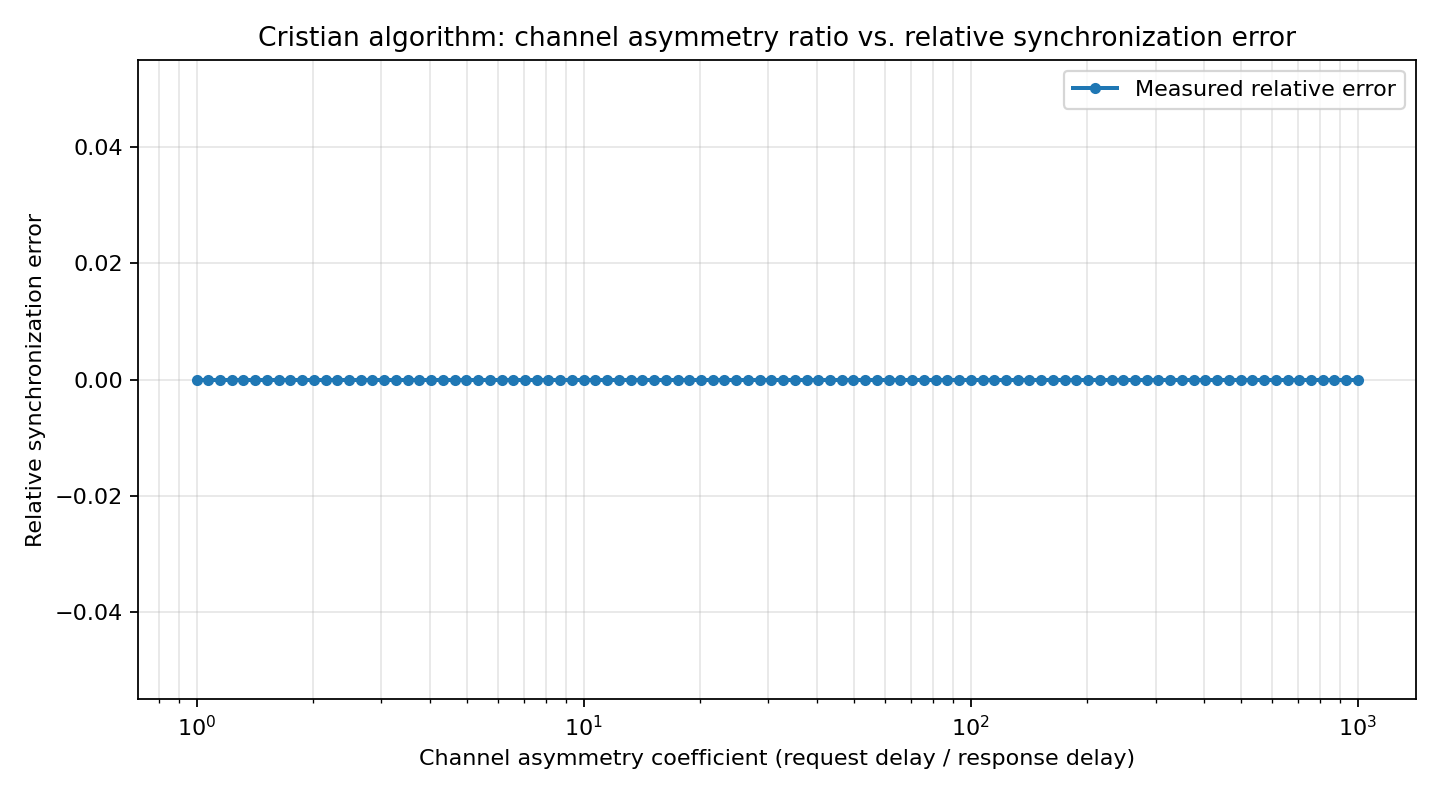
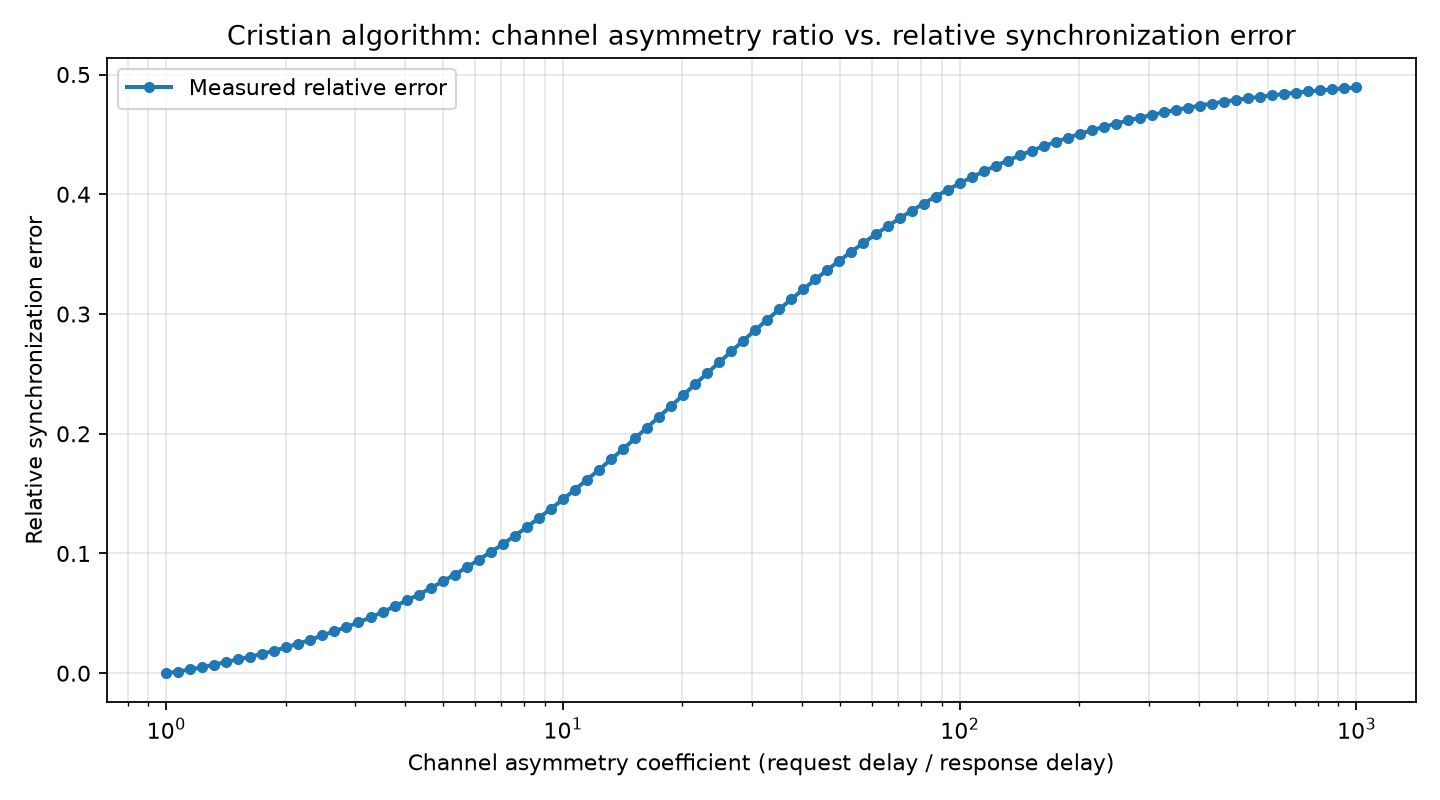
# task 1.2 tests passed succesfully + also added experiment png

diff --git a/tasks/time_synchronization/experiment.py b/tasks/time_synchronization/experiment.py
@@ -35,12 +35,48 @@ def run_single_point(
 	initial_skew_local_mcs: float,
 	# Parameter for initial remote clock skew in microseconds
 	initial_skew_remote_mcs: float,
-) -> ExperimentPoint:
+) -> ExperimentPoint: 
     # TODO: implement me (task 1.2)
+
+    # Формула для расчета relative_error: `|(local_time - remote_time) / remote_time|`
+    # Сброс тиков обязателен для обычного запуска
+	# run_experiment вызывает эту функцию в цикле,
+    # а без сброса глобальный счётчик тиков накапливается между точками
+    # Это приводит к ложному занижению relative_error (растёт знаменатель см. формула выше).
+    reset_ticks()
+
+	# Локальные часы, дрифт переданный используем
+    local_clock = LocalClock(initial_skew_mcs=initial_skew_local_mcs)
+
+    # Удалённые часы имитируют сервер времени за каналом связи 
+    # asymmetry_ratio задаёт перекос: request_delay = response_delay * ratio 
+    # get_time() у этого класса продвигает глобальные тики на
+    # (request_delay + response_delay) — это симуляция RTT 
+    remote_clock = ClockWithNetworkDelay(
+        network_delay_provider=NetworkStaticDelayProvider(
+            network_request_delay_ticks=network_response_delay_ticks * asymmetry_ratio,
+            network_response_delay_ticks=network_response_delay_ticks,
+        ),
+        initial_skew_mcs=initial_skew_remote_mcs,
+    )
+
+	# синхронизируем часы ранее разработанной функцией
+	# После вызова тики ровно = request + response  
+    cristian_time_synchronize(local_clock, remote_clock)
+
+	# снять локальное время ПОСЛЕ синхронизации
+    local_time = local_clock.get_time()
+	# используем _get_real_time сервера времени
+	# чтобы не было тика от get_time (получаем именно реальное время для расчета ошибки)
+    remote_time = remote_clock._get_real_time()
+
+ 	# Относительная ошибка по формуле
+    relative_error = abs((local_time - remote_time) / remote_time)
     return ExperimentPoint(
 		asymmetry_ratio=asymmetry_ratio,
-		relative_error=0.0,
+		relative_error=relative_error,
 	)
+
 
 
 def run_experiment(

diff --git a/tasks/time_synchronization/cristian.py b/tasks/time_synchronization/cristian.py
@@ -7,6 +7,7 @@ Use only public interface of the Clock class.
 def cristian_time_synchronize(local_clock: Clock, remote_clock: Clock) -> None:
     # TODO: implement me (task 1.1)  
     # Считаем что у нас время монотонное возращается публичным интерйфейсом
+    # Пока делал задание 1.2 изучил проект получше, да так и возвращается е мае
     t_0 = local_clock.get_time()
     T = remote_clock.get_time()
     t_1 = local_clock.get_time()
